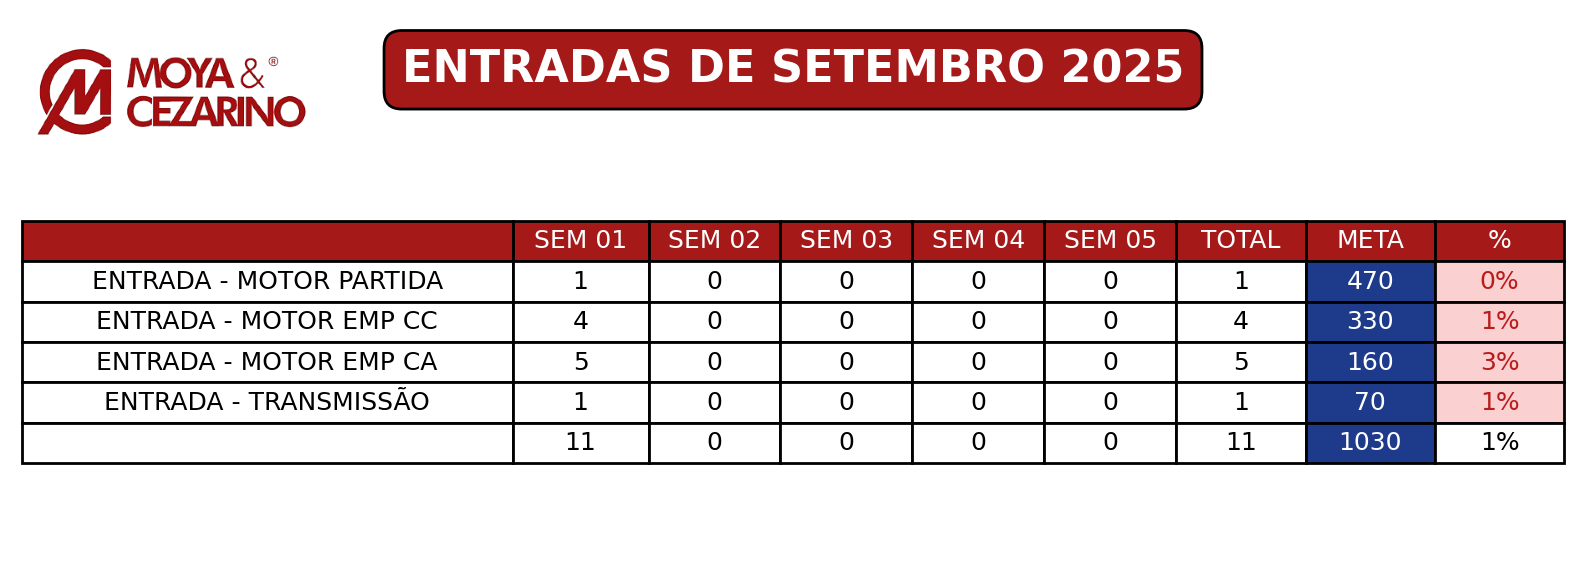
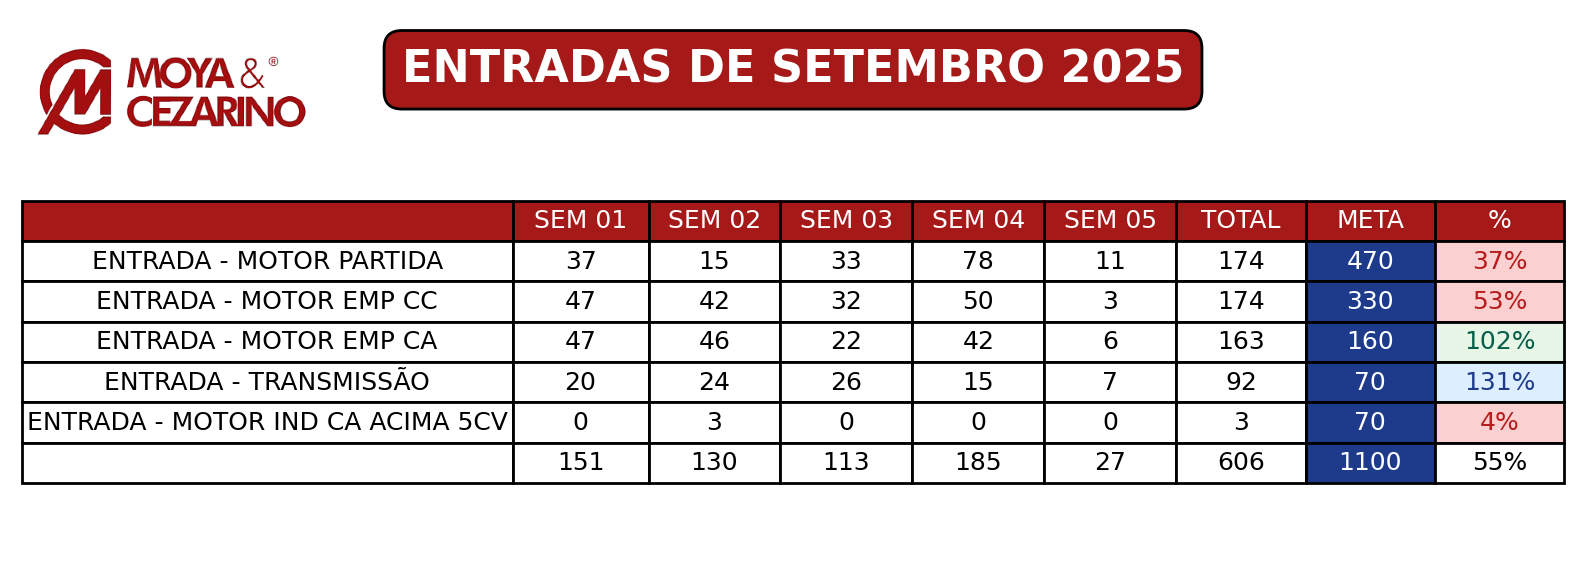
pegandos os dados do mes de agosto para o elton

Changed region(s): [[0.0, 0.3432, 0.9899, 0.8423]]

diff --git a/gerar_imagem_resumo_entradas.py b/gerar_imagem_resumo_entradas.py
@@ -64,8 +64,8 @@ base AS (
     LEFT JOIN ossituacao s    ON s.situacao = o.situacao
     LEFT JOIN vendedores v    ON v.vendedor = o.vendedor
     LEFT JOIN vendedores v2   ON v2.vendedor = t.vendedortmk
-    WHERE EXTRACT(YEAR  FROM o.abertura) = EXTRACT(YEAR FROM CURRENT_DATE)
-      AND EXTRACT(MONTH FROM o.abertura) = LPAD(EXTRACT(MONTH FROM CURRENT_DATE), 2, '0')
+    WHERE EXTRACT(YEAR  FROM o.abertura) = 2025-- EXTRACT(YEAR FROM CURRENT_DATE)
+      AND EXTRACT(MONTH FROM o.abertura) = 08-- LPAD(EXTRACT(MONTH FROM CURRENT_DATE), 2, '0')
 ),
 agg AS (
     SELECT
